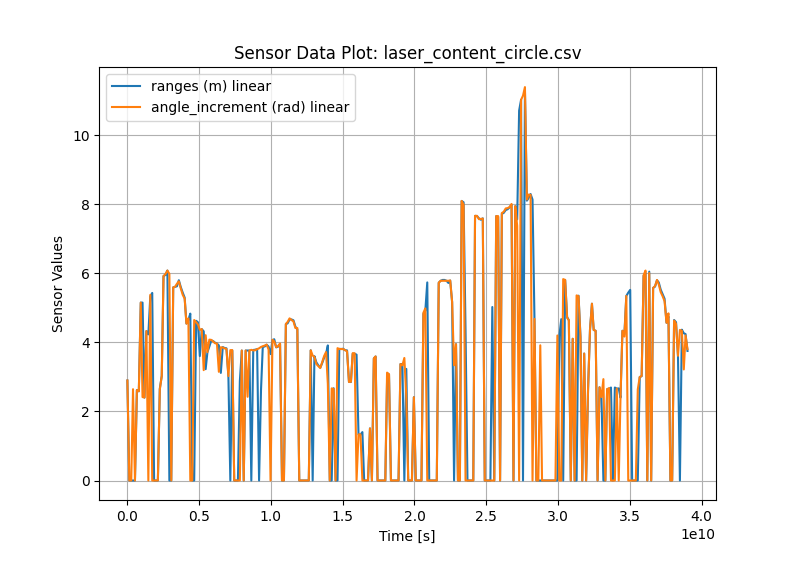
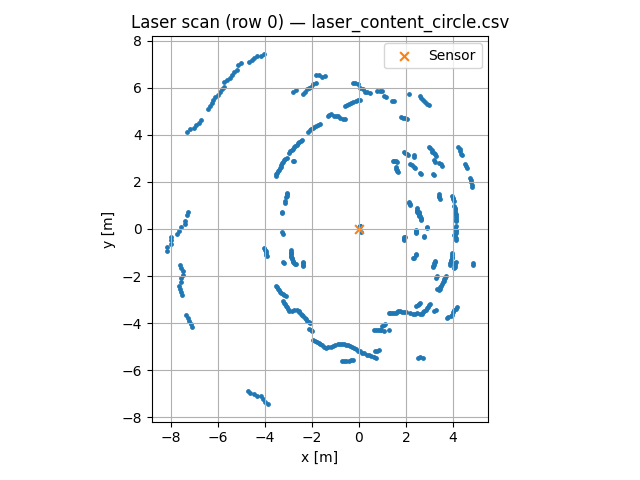
updated filePlotter with a function to plot laser scan map and updated laser plots

diff --git a/filePlotter.py b/filePlotter.py
@@ -2,6 +2,8 @@
 # Note that you need to modify/adapt it to your own files
 # Feel free to make any modifications/additions here
 
+import math
+import numpy as np
 import matplotlib.pyplot as plt
 from utilities import FileReader
 
@@ -27,7 +29,7 @@ def plot_errors(filename):
     plt.grid()
     plt.show()
 
-def plot_odom_x_y(filename):
+def plot_odom_x_y(filename): # plot x vs y from odom data
     
     headers, values=FileReader(filename).read_file() 
 
@@ -49,6 +51,44 @@ def plot_odom_x_y(filename):
     plt.legend()
     plt.tight_layout()
     plt.show()
+
+def plot_laser(filename, row_index=0): # plot laser scan for one angle
+    
+    headers, values = FileReader(filename).read_file()
+
+    row = values[row_index] # select one row to plot
+
+    ranges = np.array(row[:-2], dtype=float) # slice off the last two values to get all laser ranges
+    angle_offset = float(row[-2]) # robot/sensor heading at this scan 
+    _timestamp_ns = row[-1] # timestamp in nanoseconds
+
+    n = len(ranges) # should be 360
+    theta_local_deg = np.arange(n, dtype=float)  # array w values 0, 1, 2, ..., 359
+    theta_local = np.deg2rad(theta_local_deg)  # convert to radians     
+
+    theta = theta_local + angle_offset # add offset to every angle
+
+    mask = np.isfinite(ranges) & (ranges > 0.0) # filter out invalid measurements (avoids us having to filter out Infinity values in the future)
+
+    r  = ranges[mask] # removes all values where mask is False
+    th = theta[mask]  # removes all values where mask is False
+
+    x = r * np.cos(th)
+    y = r * np.sin(th)
+
+    plt.figure()
+    plt.scatter(x, y, s=6)
+    plt.scatter([0], [0], s=40, marker='x', label='Sensor')
+    plt.gca().set_aspect('equal', adjustable='box')
+    plt.title(f"Laser scan (row {row_index}) — {filename}")
+    plt.xlabel("x [m]")
+    plt.ylabel("y [m]")
+    plt.grid(True)
+    plt.legend()
+    plt.tight_layout()
+    plt.show()
+
+
     
 import argparse
 
@@ -63,5 +103,6 @@ if __name__=="__main__":
 
     filenames=args.files
     for filename in filenames:
-        #plot_errors(filename)
-        plot_odom_x_y(filename)
+        plot_errors(filename)
+        #plot_odom_x_y(filename)
+        #plot_laser(filename, row_index=0)
